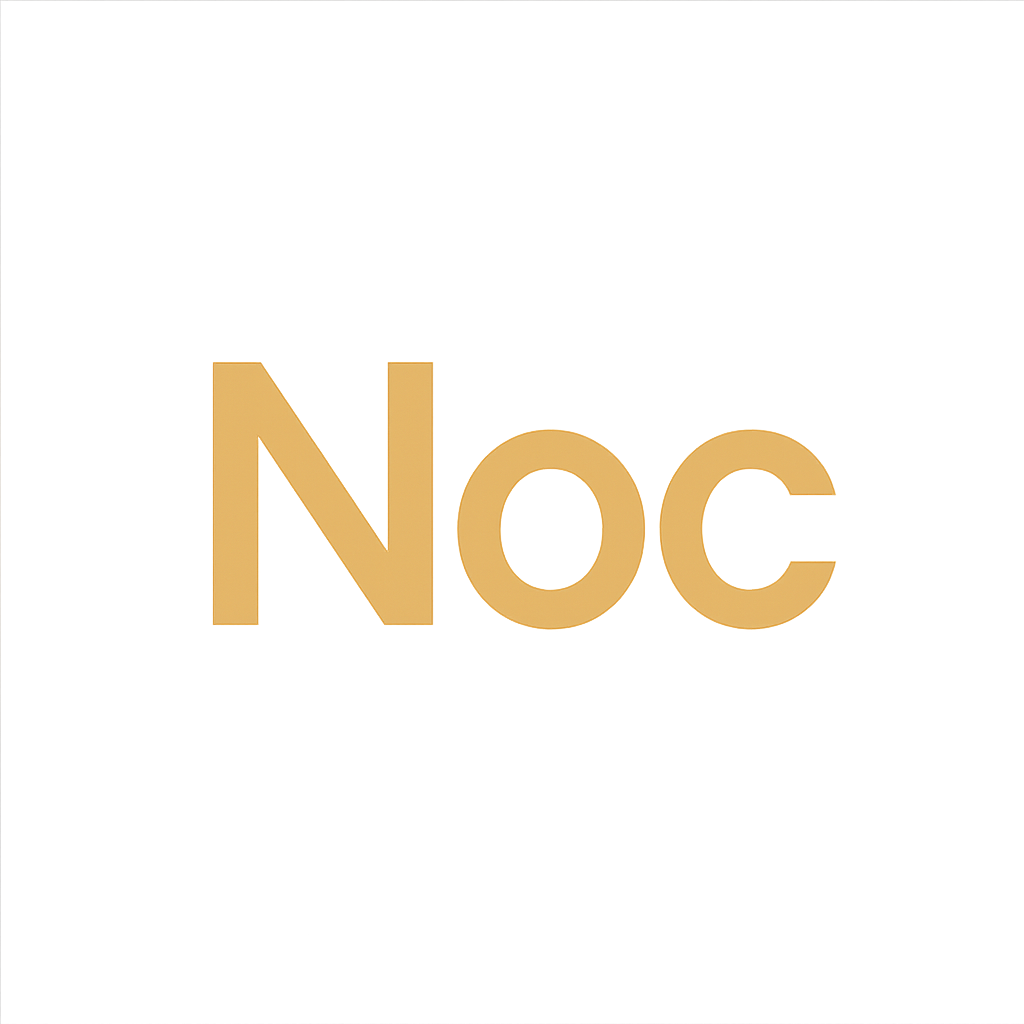
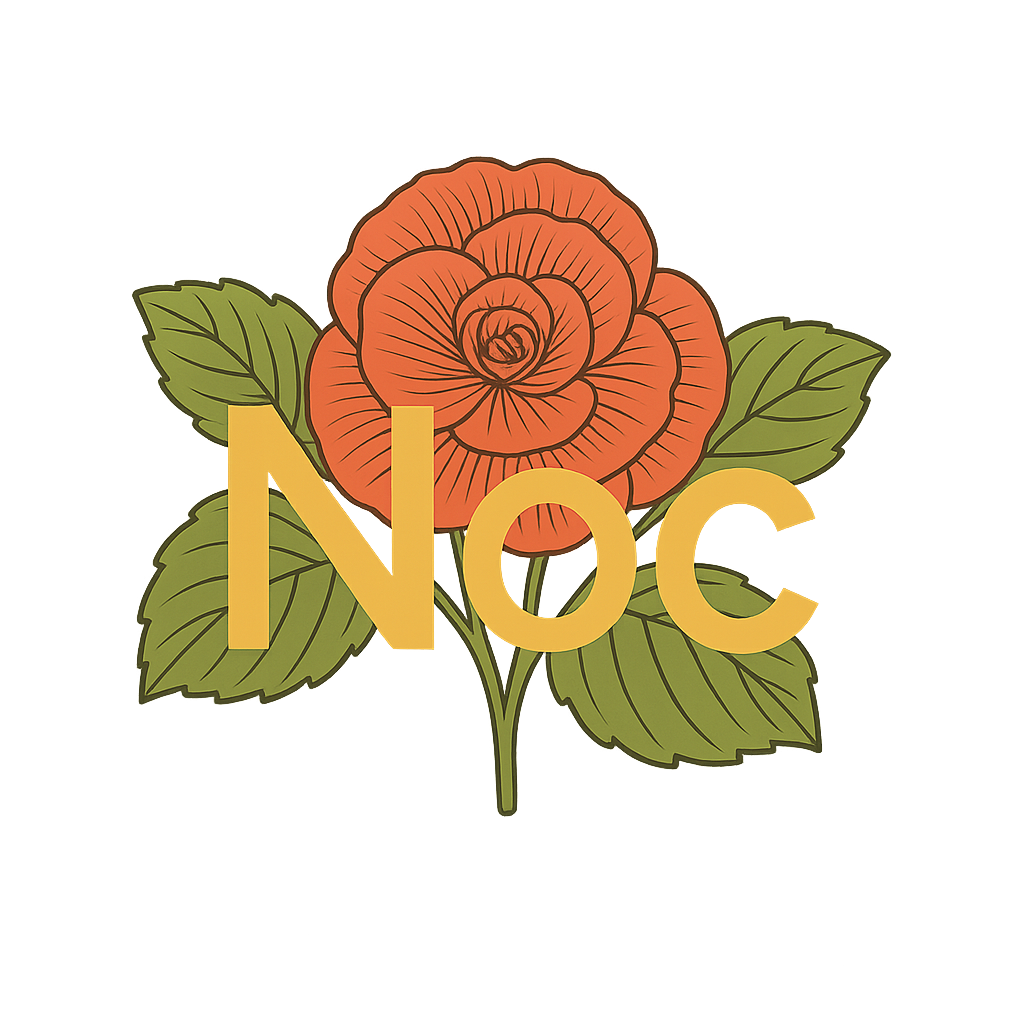
docs: readme precisions + new ico

Changed region(s): [[0.125, 0.1562, 0.875, 0.8125]]

diff --git a/app/main_window.py b/app/main_window.py
@@ -2,6 +2,7 @@
 import os
 import time
 import ttkbootstrap as ttk
+from PIL import Image, ImageTk
 
 from app import state, interface, config as app_config, theme as interface_theme
 from app.zoom import ZoomManager
@@ -65,7 +66,19 @@ def setup_gui():
         saved_theme = "litera"
     state.root.style.theme_use(saved_theme if saved_theme != "original" else "litera")
 
-    state.root.title("Noctern v1.0")
+    state.root.title("Noctern")
+    
+    # Set application icon
+    try:
+        icon_path = os.path.join("resources", "app_icon.ico")
+        if os.path.exists(icon_path):
+            state.root.iconbitmap(icon_path)
+            logs_console.log("Application icon loaded successfully.", level='DEBUG')
+        else:
+            logs_console.log(f"Icon file not found at {icon_path}", level='WARNING')
+    except Exception as e:
+        logs_console.log(f"Failed to load application icon: {e}", level='WARNING')
+    
     _apply_startup_window_settings(state.root, state._app_config) # RESTORED THIS CALL
     logs_console.log("GUI initialization process started.", level='INFO')
 

diff --git a/README.md b/README.md
@@ -203,7 +203,16 @@ Configure LLM models through Settings → Manage Models:
 
 ## Personal notes
 
-**This app is mostly a personal project. I do not think this app is as good nor performant as magnificient projects such as TeXstudio or precise neovim configurations. I am satisfied with my work and will use it for my LaTeX needs, but every need is different ! Use it if you're curious and like the demos.**
+**This app is mostly a personal project. I do not think this app is as good nor performant as magnificient projects such as TeXstudio or precise neovim configurations. I am satisfied with my work and will use it for my LaTeX needs, but every need is different ! Use it if you're curious and like the demos. I prefer being humble and won't call this editor the best out there.**
+
+It was a very interesting experience working with LaTeX and LLMs from the inside ! My goal was to enjoy myself by working on a larger project and learning through the mistakes I make along the way. In both life and computer science, I embrace mistakes as opportunities for growth and self-reflection.
+
+Some lessons I learnt:
+
+- Choose your language wisely because you can't really change it afterwards
+- Being very careful to technical debt (even more than what you're told)
+- Go ahead - dive in and learn by doing. 
+
 
 ## License
 
